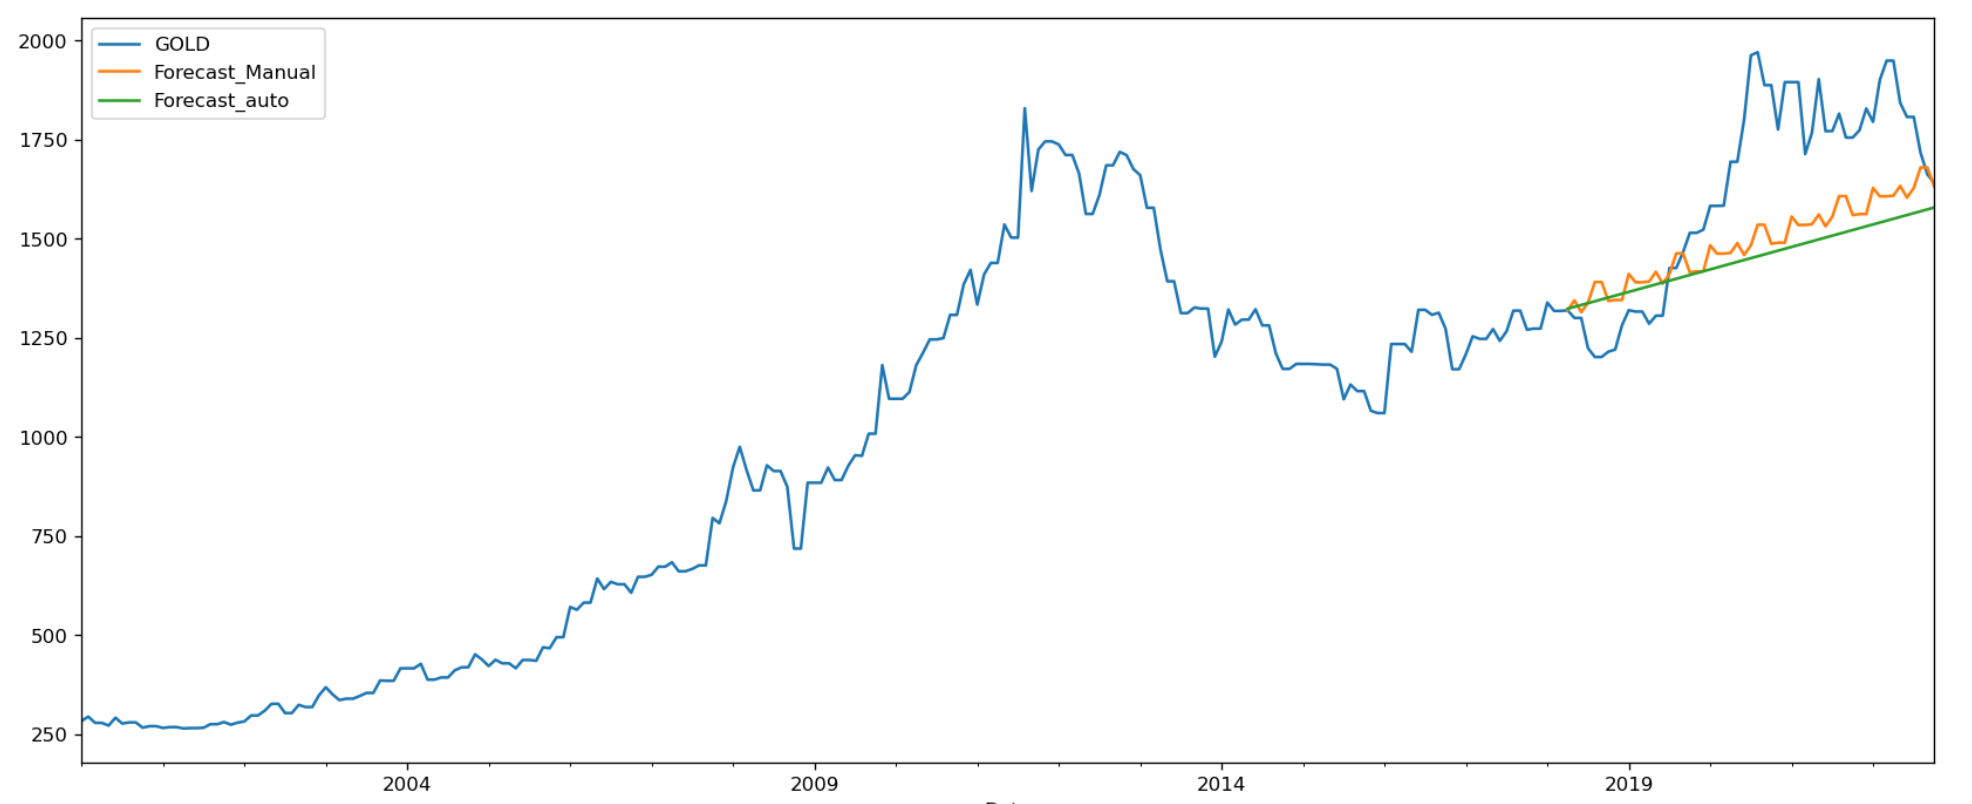
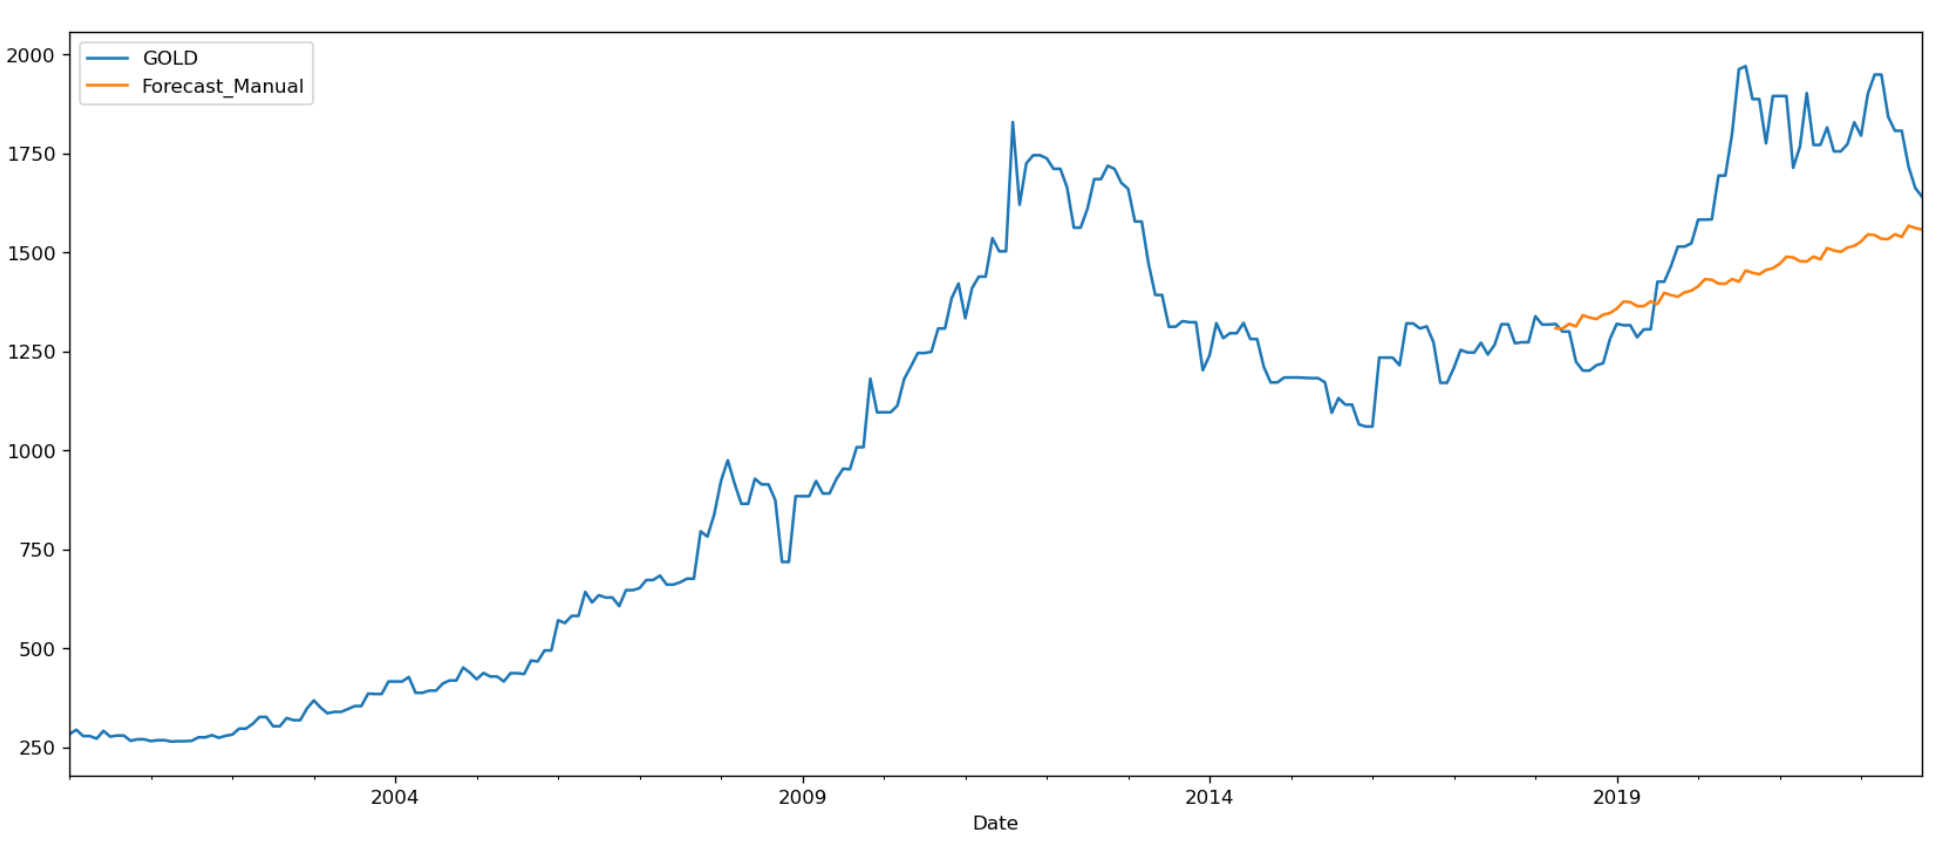
000

diff --git a/index.html b/index.html
@@ -77,27 +77,27 @@
                         <tbody>
                             <tr>
                                 <th scope="row">2022-11-30</th>
-                                <td>1634.506399</td>
+                                <td>1568.802100</td>
                             </tr>
                             <tr>
                                 <th scope="row">2022-12-31</th>
-                                <td>1634.506399</td>
+                                <td>1573.031343</td>
                             </tr>
                             <tr>
                                 <th scope="row">2023-01-31</th>
-                                <td>1700.306399</td>
+                                <td>1584.207453</td>
                             </tr>
                             <tr>
                                 <th scope="row">2023-02-28</th>
-                                <td>1679.206399</td>
+                                <td>1602.097234</td>
                             </tr>
                             <tr>
                                 <th scope="row">2023-03-31</th>
-                                <td>1679.206399</td>
+                                <td>1600.495011</td>
                             </tr>
                             <tr>
                                 <th scope="row">2023-04-30</th>
-                                <td>1680.943527</td>
+                                <td>1590.868227</td>
                             </tr>
                         </tbody>
                     </table>
